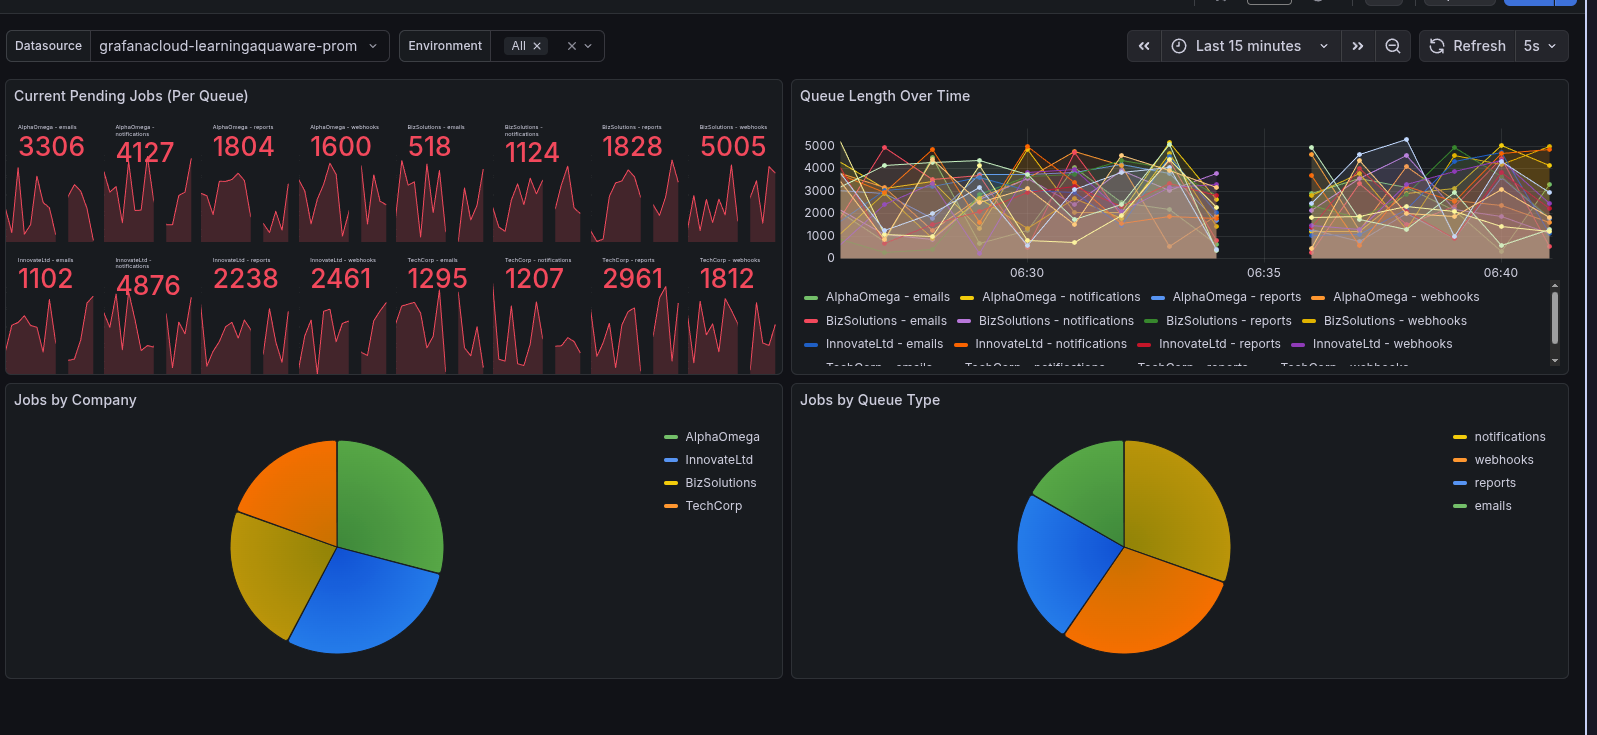
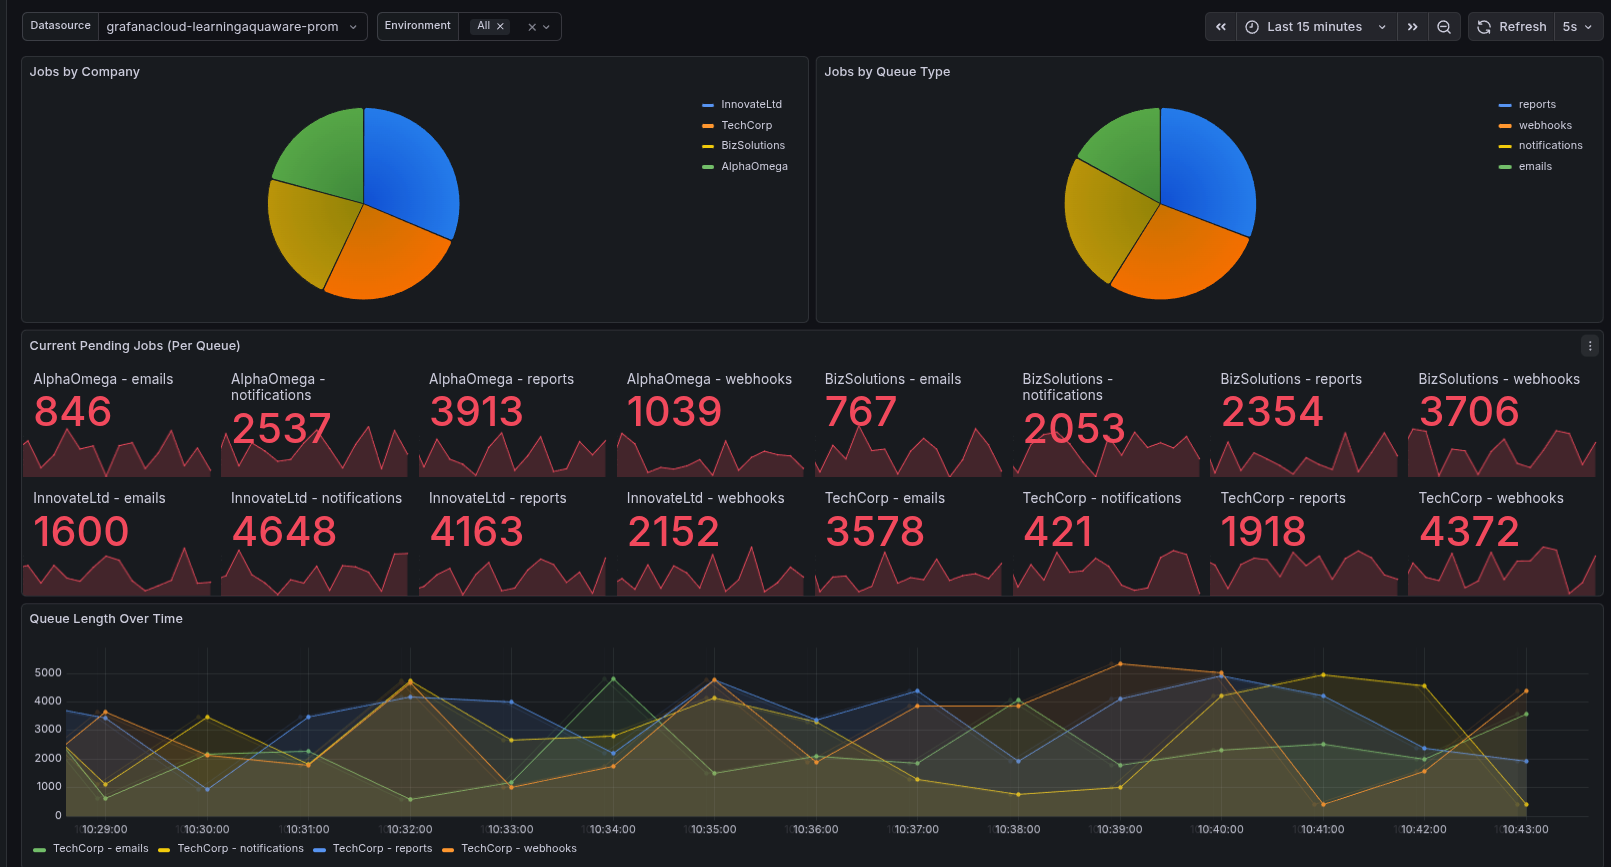
updated dashboards

diff --git a/README.md b/README.md
@@ -139,8 +139,8 @@ While the system runs automatically, you can manually interact with these endpoi
  - Simple: https://learningaquaware.grafana.net/public-dashboards/441fca3445e24e1e8146e379b2c26e37
  - Simple: https://learningaquaware.grafana.net/public-dashboards/46a4015d579b44fdbed97d8133cb9a35
  - Simple: https://learningaquaware.grafana.net/public-dashboards/59a1fd427cec4397bbb5fdb46bdba486
- - Composed: https://learningaquaware.grafana.net/public-dashboards/65cf0c30dbdd437c91f1dc9c66dfecbd
-
+ - Composed: https://learningaquaware.grafana.net/public-dashboards/4f00977735da49809d443edce70115aa
+ 
 ## Screenshots
 
 ### All Environments
